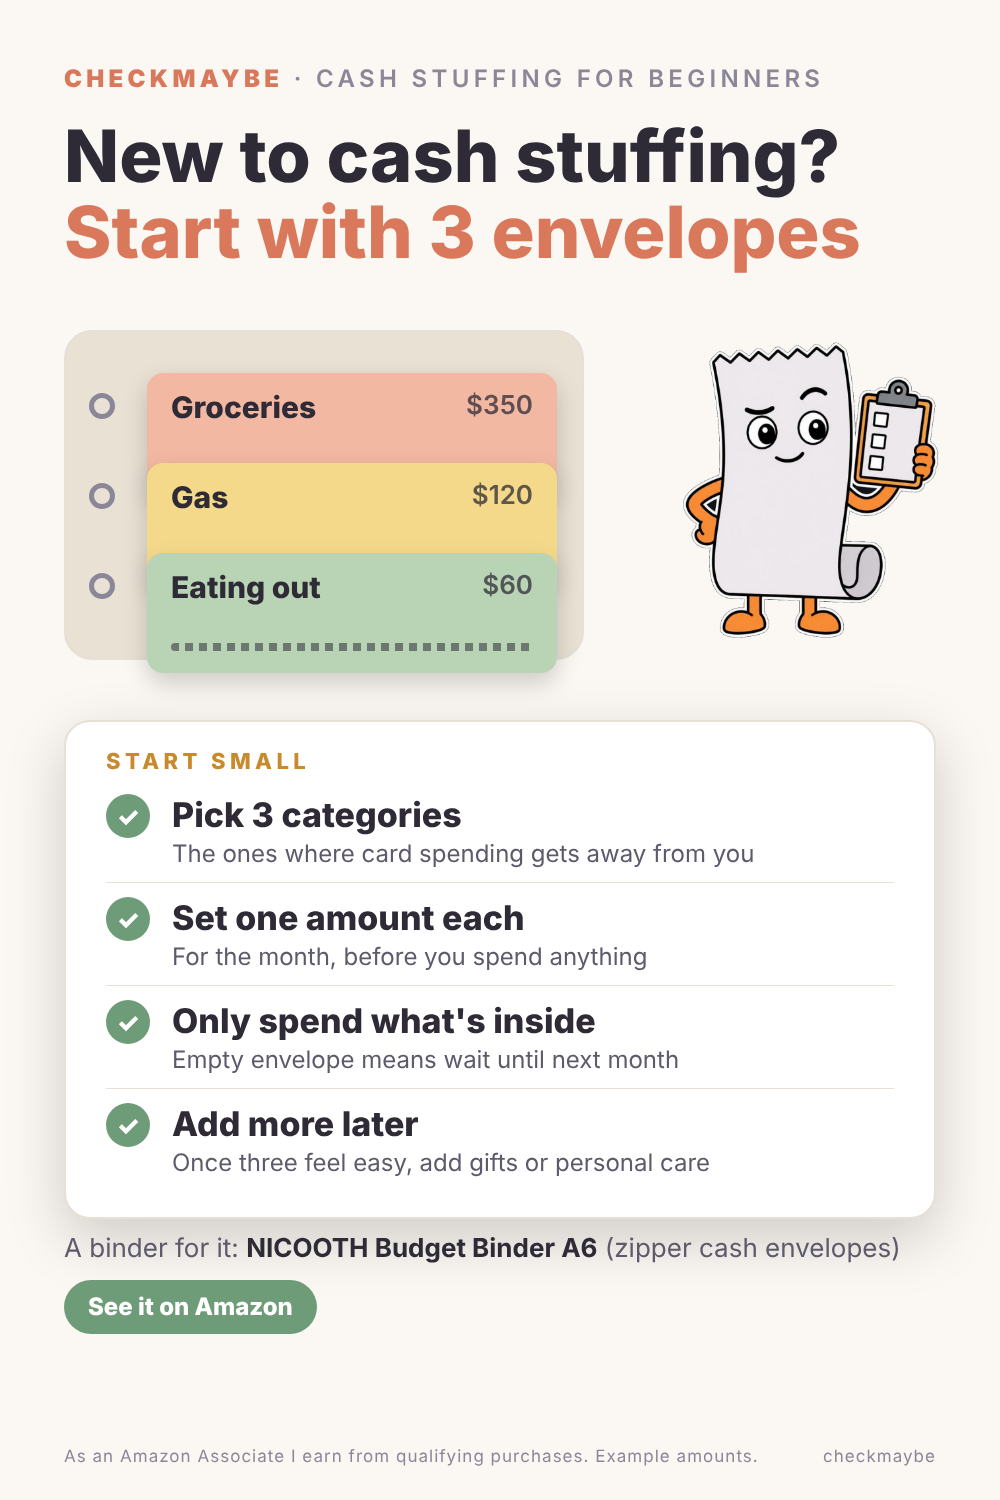
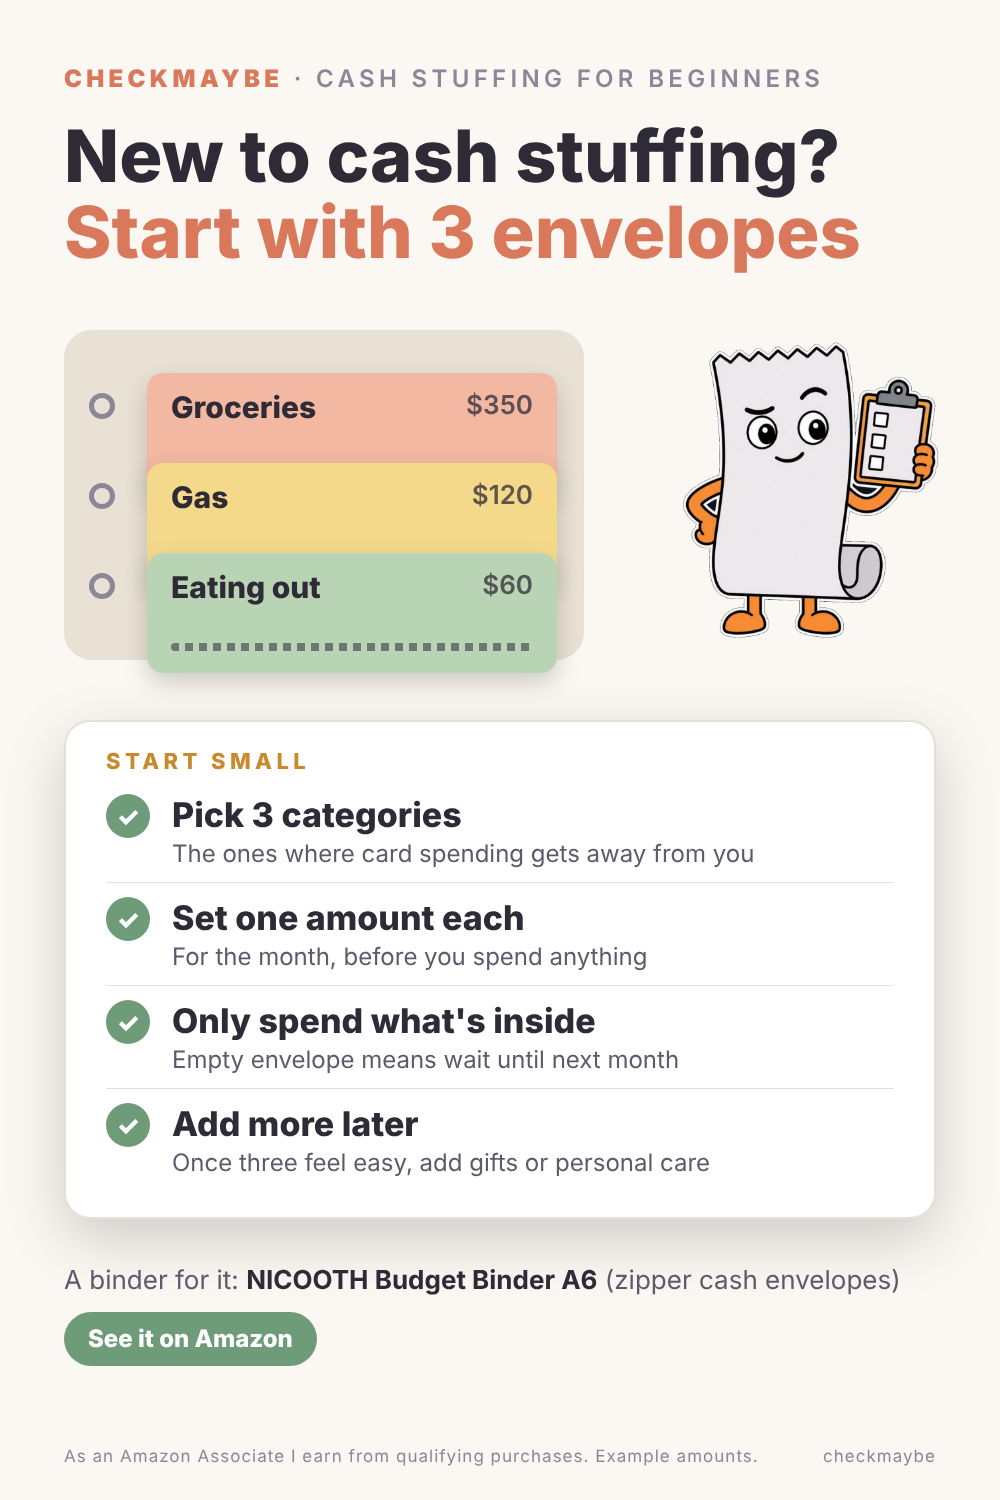
Pinterest v15: ten more Amazon pins (savings challenge, budget planners), copy and 2-3/day schedule
Claude-Session: https://claude.ai/code/session_012dBA7SqmaqwCRXrXc8dwP2

Changed region(s): [[0.062, 0.828, 0.899, 0.92]]

diff --git a/content/pinterest/2026-11/build_pins_v15_amazon.py b/content/pinterest/2026-11/build_pins_v15_amazon.py
@@ -81,6 +81,89 @@ PINS = [
                ("Moving money is a decision", "Take from fun money, not from rent"),
                ("Leftovers go somewhere on purpose", "Roll over or move to savings, and write it down")],
          pick='Zipper envelopes with sheets: <b>Ginmlyda Budget Binder</b> (zipper envelopes, money saving sheets, stickers and pen)'),
+    # Savings challenge books (100 envelopes). Sums: 1..100 = 5,050; 1..50 = 1,275. Jan 1 + 99 days = Apr 10, 2027.
+    dict(id="az6", slug="savings-challenge", themes=["light"], art=f"{A2}/unroll.jpg", kicker="100 envelope challenge",
+         h1="100 envelopes,<br><em>$5,050 saved</em>",
+         envs=[("Envelope #1", "$1"), ("Envelope #37", "$37"), ("Envelope #100", "$100")],
+         label="HOW THE MATH WORKS", steps=False,
+         rows=[("Each envelope has a number", "1 to 100: put in that many dollars"),
+               ("Fill one when you can", "In any order, a small one on tight weeks"),
+               ("All 100 filled = $5,050", "1 + 2 + 3 ... + 100")],
+         pick='A binder for it: <b>AASLOB 100 Envelopes Money Saving Challenge</b> (challenge binder, save $5,050)'),
+    dict(id="az7", slug="savings-challenge", themes=["light"], art=f"{A3}/calc.jpg", kicker="Savings challenge",
+         h1="$5,050 too much?<br><em>Do 50 envelopes</em>",
+         envs=[("Envelope #1", "$1"), ("Envelope #25", "$25"), ("Envelope #50", "$50")],
+         label="SMALLER VERSIONS", steps=False,
+         rows=[("Envelopes 1 to 50", "$1,275 when they're all filled"),
+               ("Envelopes 1 to 100", "$5,050 when they're all filled"),
+               ("Pick the one you'll finish", "A finished small challenge beats a dropped big one")],
+         pick='One with a tracker: <b>RONMONG 100 Envelopes Challenge Binder</b> (cash envelopes, tracker and budget sheets)'),
+    dict(id="az8", slug="savings-challenge", themes=["light"], art=f"{A2}/check.jpg", kicker="100 envelope challenge",
+         h1="One envelope a day,<br><em>100 days</em>",
+         envs=[("Day 1 · #63", "$63"), ("Day 2 · #8", "$8"), ("Day 3 · #21", "$21")],
+         label="HOW TO RUN IT", steps=True,
+         rows=[("Pick a number you haven't filled", "Big on payday, small at month end"),
+               ("Put in that many dollars", "Cash goes straight into the envelope"),
+               ("Cross it off the tracker", "So you can see what's left")],
+         pick='A book for it: <b>GINTBN 100 Envelopes Money Saving Challenge Book</b> (with password lock)'),
+    dict(id="az9", slug="savings-challenge", themes=["light"], art=f"{A3}/happy.jpg", kicker="New year savings",
+         h1="Start January 1,<br><em>done by April 10</em>",
+         envs=[("Jan 1", "Day 1"), ("Feb 28", "Day 59"), ("Apr 10", "Day 100")],
+         label="100 DAYS IN 2027", steps=False,
+         rows=[("One envelope a day", "100 envelopes, 100 days"),
+               ("Miss a day? Keep going", "Just finish later than April 10"),
+               ("$5,050 at the end", "If all 100 are filled")],
+         pick='A binder for it: <b>AASLOB 100 Envelopes Money Saving Challenge</b> (challenge binder, save $5,050)'),
+    dict(id="az10", slug="savings-challenge", themes=["light"], art=f"{A2}/asterisk.jpg", kicker="Savings challenge",
+         h1="Tight week?<br><em>Pick a small envelope</em>",
+         envs=[("Payday week", "#88"), ("Normal week", "#40"), ("Tight week", "#3")],
+         label="MATCH THE ENVELOPE TO THE WEEK", steps=False,
+         rows=[("Big numbers on payday", "When the money is actually there"),
+               ("Small numbers when it's tight", "Still counts, still crosses one off"),
+               ("Never borrow back", "Taking cash out undoes the habit")],
+         pick='One with a tracker: <b>RONMONG 100 Envelopes Challenge Binder</b> (cash envelopes, tracker and budget sheets)'),
+    # Undated budget planners.
+    dict(id="az11", slug="budget-planner", themes=["light"], art=f"{A2}/check.jpg", kicker="Budget planner",
+         h1="Budget planner<br><em>that starts any month</em>",
+         envs=[("Month 1", "February"), ("Month 2", "March"), ("Month 3", "April")],
+         label="WHY UNDATED", steps=False,
+         rows=[("Start the day you decide", "No waiting for January"),
+               ("Skip a month, lose no pages", "Write the month in yourself"),
+               ("Track what you spend", "Each month next to the plan")],
+         pick='An undated one: <b>Taja Budget Planner</b> (undated budget book with expense tracker)'),
+    dict(id="az12", slug="budget-planner", themes=["light"], art=f"{A3}/check.jpg", kicker="Bill calendar",
+         h1="Bills on different days?<br><em>Put them on one page</em>",
+         envs=[("Phone · 4th", "$65"), ("Car · 12th", "$310"), ("Card · 23rd", "$120")],
+         label="ONE BILL CALENDAR", steps=False,
+         rows=[("Write every due date", "Phone, car, cards, subscriptions"),
+               ("Mark the paydays too", "See which bills land before payday"),
+               ("Check it every Sunday", "So a due date never sneaks up on you")],
+         pick='One with bill pockets: <b>SOLIGT Budget Planner Monthly Bill Organizer</b> (undated, 12 pockets)'),
+    dict(id="az13", slug="budget-planner", themes=["light"], art=f"{A3}/calc.jpg", kicker="January budget reset",
+         h1="January budget reset:<br><em>4 numbers first</em>",
+         envs=[("Take-home pay", "$3,800"), ("Fixed bills", "$1,950"), ("Debt minimums", "$680")],
+         label="WRITE THESE BEFORE ANYTHING ELSE", steps=True,
+         rows=[("Take-home pay", "What actually lands in your account"),
+               ("Fixed bills", "Rent, insurance, phone"),
+               ("Debt minimums", "Every card and loan"),
+               ("What's left", "That's the budget for everything else")],
+         pick='An undated one: <b>Taja Budget Planner</b> (undated budget book with expense tracker)'),
+    dict(id="az14", slug="budget-planner", themes=["light"], art=f"{A2}/tag.jpg", kicker="Bill organizer",
+         h1="Paper bills piling up?<br><em>One pocket a month</em>",
+         envs=[("January", "pocket 1"), ("February", "pocket 2"), ("March", "pocket 3")],
+         label="KEEP IT SIMPLE", steps=False,
+         rows=[("Paid it? Into this month's pocket", "Receipt or bill, nothing else"),
+               ("Need it later? It's by month", "Taxes, returns, disputes"),
+               ("New year, empty pockets", "Box last year's and start again")],
+         pick='One with 12 pockets: <b>SOLIGT Budget Planner Monthly Bill Organizer</b> (undated, 12 pockets)'),
+    dict(id="az15", slug="budget-planner", themes=["light"], art=f"{A3}/gifts.jpg", kicker="Weekly money check",
+         h1="A 10-minute<br><em>weekly money check</em>",
+         envs=[("Spent this week", "$412"), ("Left this month", "$860"), ("Bills next week", "$185")],
+         label="EVERY SUNDAY", steps=True,
+         rows=[("Add up this week's spending", "Card, cash, apps"),
+               ("Compare with what's left", "For the rest of the month"),
+               ("Look at next week's bills", "So nothing surprises you")],
+         pick='An undated one: <b>Taja Budget Planner</b> (undated budget book with expense tracker)'),
 ]
 
 
@@ -102,7 +185,7 @@ h1{{position:absolute;left:64px;right:64px;top:118px;font-size:72px;font-weight:
 .row{{display:flex;gap:22px;align-items:flex-start;padding:14px 0;border-top:1px solid {t['line']}}}.row:nth-child(2){{border-top:0}}
 .c{{flex:none;width:44px;height:44px;border-radius:50%;background:{t['check']};color:#fff;font-size:26px;font-weight:800;display:flex;align-items:center;justify-content:center}}
 .q{{font-size:34px;font-weight:800}}.s{{font-size:24px;color:{t['sub']};margin-top:4px}}
-.pick{{position:absolute;left:64px;right:64px;top:1230px;font-size:26px;color:{t['sub']};line-height:1.4}}.pick b{{color:{t['ink']}}}
+.pick{{position:absolute;left:64px;right:64px;top:1262px;font-size:26px;color:{t['sub']};line-height:1.4}}.pick b{{color:{t['ink']}}}
 .tag{{display:inline-block;margin-top:14px;font-weight:800;border-radius:999px;padding:10px 24px;font-size:24px;background:{t['tag_bg']};color:{t['tag_ink']}}}
 .foot{{position:absolute;left:64px;right:64px;bottom:34px;display:flex;justify-content:space-between;font-size:17px;letter-spacing:.06em;color:{t['muted']}}}"""
     env_html = "".join(
@@ -127,7 +210,7 @@ for p in PINS:
         mascot = p["art"] if th == "dark" else cutout(p["art"], p["id"])
         src = f"{TMP}/{p['id']}-{th}.html"
         open(src, "w").write(page(p, t, mascot))
-        name = f"checkmaybe-pin-{p['id']}-budget-binder" + (f"-{th}" if p["id"] == "az1" else "")
+        name = f"checkmaybe-pin-{p['id']}-{p.get('slug', 'budget-binder')}" + (f"-{th}" if p["id"] == "az1" else "")
         jobs.append([src, f"{OUT}/{name}.png"])
 js = f"""import {{ chromium }} from '/opt/node22/lib/node_modules/playwright/index.mjs';
 const jobs = {json.dumps(jobs)}; const b = await chromium.launch();

diff --git a/content/pinterest/2026-11/pins-v15-amazon.md b/content/pinterest/2026-11/pins-v15-amazon.md
@@ -3,7 +3,7 @@
 Built by `build_pins_v15_amazon.py` (images in `pins/`). Light look (J 2026-11-20); az1 also has a dark version for an A/B test.
 Rules: no Amazon product photos; each product line uses only features from that listing's title; checklists are general tips; disclosure on the image and in every description. Board: a new board "Cash Stuffing & Budget Binders" (or Pay Later & Budgeting Tips).
 Before posting each pin, J opens the product page (US delivery address, e.g. ZIP 10001), checks 4.5+ stars, 1,000+ ratings, $15 to $40, Prime, and that the features named on the pin are on the page; then SiteStripe › Get Link › Short Link, and pastes the amzn.to link here. If a product fails the check, tell Claude to swap it (about 1 minute to re-render).
-Posting: one every 2 to 3 days; az1 light and dark the same week to compare outbound clicks.
+Posting (J 2026-11-20): 2 to 3 pins a day to build volume. Mix product types each day; never two pins with the same link back to back. az1 dark and light go up the same week to compare outbound clicks.
 
 | Pin | Angle | Product page (check, then get the amzn.to link) | Link |
 | --- | --- | --- | --- |
@@ -12,6 +12,30 @@ Posting: one every 2 to 3 days; az1 light and dark the same week to compare outb
 | az3 | Card bill higher than expected? | Antner https://www.amazon.com/dp/B08LSMSG38 | `<amzn.to>` |
 | az4 | Payday routine, 4 steps | Rnivvi https://www.amazon.com/dp/B0BTM72R34 | `<amzn.to>` |
 | az5 | Envelope empty, category done | Ginmlyda https://www.amazon.com/dp/B09D9KLNGL | `<amzn.to>` |
+| az6 | 100 envelopes = $5,050 | AASLOB https://www.amazon.com/dp/B0CL1VGX3V | `<amzn.to>` |
+| az7 | Do 50 envelopes ($1,275) | RONMONG https://www.amazon.com/dp/B0CT2GF177 | `<amzn.to>` |
+| az8 | One envelope a day, 100 days | GINTBN https://www.amazon.com/dp/B0FD3C5PTF | `<amzn.to>` |
+| az9 | Start Jan 1, done by Apr 10 | AASLOB (same as az6) | same as az6 |
+| az10 | Tight week, small envelope | RONMONG (same as az7) | same as az7 |
+| az11 | Planner that starts any month | Taja https://www.amazon.com/dp/B0C33RXLR6 | `<amzn.to>` |
+| az12 | Bills on one page | SOLIGT https://www.amazon.com/dp/B091DLSFMY | `<amzn.to>` |
+| az13 | January reset, 4 numbers | Taja (same as az11) | same as az11 |
+| az14 | One pocket a month | SOLIGT (same as az12) | same as az12 |
+| az15 | 10-minute weekly check | Taja (same as az11) | same as az11 |
+
+10 links needed in total (SKYDUE, NICOOTH, Antner, Rnivvi, Ginmlyda, AASLOB, RONMONG, GINTBN, Taja, SOLIGT).
+Math on the savings pins: 1 + 2 + ... + 100 = 5,050; 1 + ... + 50 = 1,275; Jan 1, 2027 is day 1, Feb 28 day 59, Apr 10 day 100.
+
+## Schedule (2 to 3 a day)
+| Day | Pins |
+| --- | --- |
+| 1 | az1 light, az6, az11 |
+| 2 | az1 dark, az7, az12 |
+| 3 | az2, az8, az13 |
+| 4 | az3, az9, az14 |
+| 5 | az4, az10, az15 |
+| 6 | az5 |
+Then: Claude makes the next batch from the pins with the most outbound clicks (new images, same links).
 
 Disclosure line (end of every description): `As an Amazon Associate I earn from qualifying purchases.`
 
@@ -39,3 +63,53 @@ Disclosure line (end of every description): `As an Amazon Associate I earn from 
 - **Title:** Cash Envelope Rules: When It's Empty, That Category Is Done
 - **Description:** Three rules that make cash envelopes work: an empty envelope means that category is done for the month, moving money between envelopes is a decision you make on purpose, and leftovers roll over or go to savings, written down. Binder in the example: Ginmlyda Budget Binder with zipper envelopes, money saving sheets, stickers and pen. Example amounts. As an Amazon Associate I earn from qualifying purchases. #cashenvelopes #cashstuffing #budgetingtips
 - **Alt text:** Envelopes showing groceries $12 left, gas $0 left and fun money $25 left, with three cash envelope rules.
+
+### az6
+- **Title:** 100 Envelope Challenge: How 100 Envelopes Add Up to $5,050
+- **Description:** Number 100 envelopes from 1 to 100 and put that many dollars in each one, in any order. Fill a small one on tight weeks and a big one on payday. When all 100 are filled you've saved $5,050 (1 + 2 + 3 ... + 100). Binder used in the example: AASLOB 100 Envelopes Money Saving Challenge binder. As an Amazon Associate I earn from qualifying purchases. #100envelopechallenge #savingschallenge #cashstuffing
+- **Alt text:** Envelopes numbered 1, 37 and 100 with $1, $37 and $100, and how 100 envelopes add up to $5,050.
+
+### az7
+- **Title:** $5,050 Savings Challenge Too Much? Do 50 Envelopes for $1,275
+- **Description:** The 100 envelope challenge adds up to $5,050. If that's too much this year, do envelopes 1 to 50 instead: $1,275 when they're all filled. A finished small challenge beats a dropped big one. Binder in the example: RONMONG 100 Envelopes Challenge Binder with cash envelopes, tracker and budget sheets. As an Amazon Associate I earn from qualifying purchases. #savingschallenge #100envelopechallenge #moneysavingtips
+- **Alt text:** Envelopes numbered 1, 25 and 50, comparing 50 envelopes ($1,275) with 100 envelopes ($5,050).
+
+### az8
+- **Title:** 100 Envelope Challenge: One Envelope a Day for 100 Days
+- **Description:** Each day pick a number you haven't filled yet, put in that many dollars and cross it off. Big numbers on payday, small ones at the end of the month. Book in the example: GINTBN 100 Envelopes Money Saving Challenge Book with password lock. As an Amazon Associate I earn from qualifying purchases. #100envelopechallenge #savingschallenge #cashstuffing
+- **Alt text:** Day 1 envelope 63, day 2 envelope 8, day 3 envelope 21, with three steps to run the challenge.
+
+### az9
+- **Title:** New Year Savings Challenge: Start January 1, Done by April 10
+- **Description:** One envelope a day from January 1, 2027 means envelope 100 lands on April 10. Missed a day? Keep going and finish a little later. All 100 filled is $5,050. Binder in the example: AASLOB 100 Envelopes Money Saving Challenge binder. As an Amazon Associate I earn from qualifying purchases. #newyearsavings #100envelopechallenge #savingschallenge
+- **Alt text:** Timeline: January 1 day 1, February 28 day 59, April 10 day 100, with notes on the 100 envelope challenge.
+
+### az10
+- **Title:** Savings Challenge Tip: Tight Week? Pick a Small Envelope
+- **Description:** Match the envelope to the week: big numbers on payday, small numbers when money is tight, and never take cash back out. It still counts and still crosses one off. Binder in the example: RONMONG 100 Envelopes Challenge Binder with cash envelopes, tracker and budget sheets. As an Amazon Associate I earn from qualifying purchases. #savingschallenge #cashenvelopes #budgetingtips
+- **Alt text:** Payday week envelope 88, normal week envelope 40, tight week envelope 3, with three tips.
+
+### az11
+- **Title:** Undated Budget Planner: Start Any Month, Not Just January
+- **Description:** An undated budget planner lets you start the day you decide, skip a month without wasting pages, and track what you spend next to the plan. Example: Taja Budget Planner, an undated budget book with expense tracker. As an Amazon Associate I earn from qualifying purchases. #budgetplanner #budgeting #moneymanagement
+- **Alt text:** Planner pages labelled month 1 February, month 2 March, month 3 April, with three reasons to use an undated planner.
+
+### az12
+- **Title:** Bills Due on Different Days? Put Them on One Bill Calendar
+- **Description:** Write every due date on one page (phone, car, cards, subscriptions), mark your paydays next to them, and look at it every Sunday so a due date never sneaks up on you. Example: SOLIGT Budget Planner Monthly Bill Organizer, undated, with 12 pockets. Example amounts. As an Amazon Associate I earn from qualifying purchases. #billorganizer #budgetplanner #billtracker
+- **Alt text:** Bill list: phone due the 4th $65, car the 12th $310, card the 23rd $120, with three steps for a bill calendar.
+
+### az13
+- **Title:** January Budget Reset: Write These 4 Numbers First
+- **Description:** Before any category: your take-home pay, your fixed bills, your debt minimums, and what's left. That last number is the budget for everything else. Example: Taja Budget Planner, an undated budget book with expense tracker. Example amounts. As an Amazon Associate I earn from qualifying purchases. #januarybudget #budgetplanner #newyearbudget
+- **Alt text:** Take-home pay $3,800, fixed bills $1,950, debt minimums $680, with four numbers to write first.
+
+### az14
+- **Title:** Paper Bills Piling Up? Keep One Pocket for Each Month
+- **Description:** Paid it? Put the bill or receipt in this month's pocket. Need it later for taxes or a return? It's filed by month. New year: box last year's and start again. Example: SOLIGT Budget Planner Monthly Bill Organizer, undated, with 12 pockets. As an Amazon Associate I earn from qualifying purchases. #billorganizer #paperorganization #budgeting
+- **Alt text:** Pockets labelled January, February and March, with three simple rules for paper bills.
+
+### az15
+- **Title:** A 10-Minute Weekly Money Check (Every Sunday)
+- **Description:** Every Sunday: add up this week's spending, compare it with what's left for the month, and look at next week's bills. Example: Taja Budget Planner, an undated budget book with expense tracker. Example amounts. As an Amazon Associate I earn from qualifying purchases. #budgetingtips #moneyhabits #budgetplanner
+- **Alt text:** Spent this week $412, left this month $860, bills next week $185, with three steps for a weekly money check.
